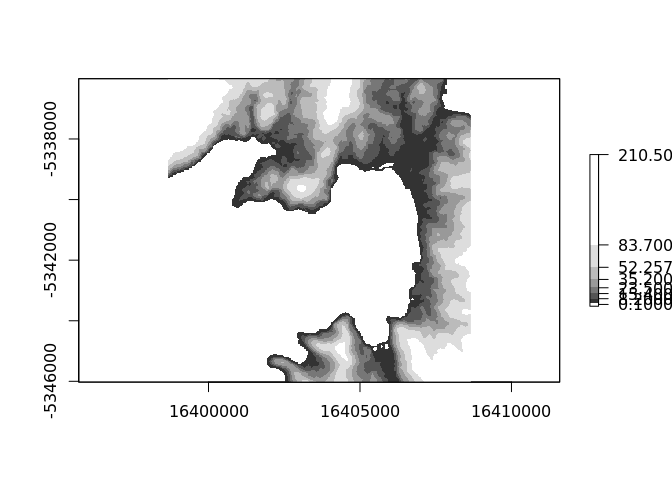
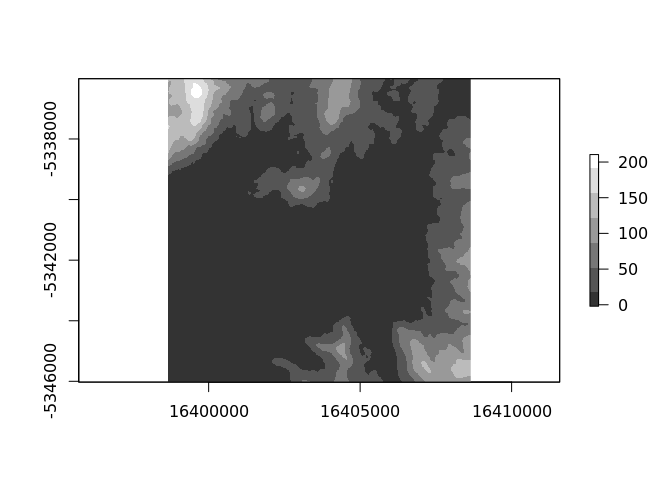
cc_elevation

Changed region(s): [[0.25, 0.1562, 0.7188, 0.8125], [0.875, 0.3125, 1.0, 0.6562], [0.6875, 0.8438, 0.8438, 0.875]]

diff --git a/README.md b/README.md
@@ -45,7 +45,7 @@ This complete example gets tiled imagery that we can use as real data.
 
 The code here
 
-  - generates a bounding box in longitud-latitude
+  - generates a bounding box in longitude-latitude
   - uses [slippymath](https://github.com/MilesMcBain/slippymath/) to
     find sensible tiles for the region
   - downloads them to a local cache
@@ -233,22 +233,18 @@ See `quadmesh::quadmesh`.
 Get DEM, get image, make a scene.
 
 ``` r
-cc_elevation <- function(loc,...) {
-  dat <- cc_location(loc, 5000, type = "mapbox.terrain-rgb")
-  height <-  -10000 + ((dat[[1]] * 256 * 256 + dat[[2]] * 256 + dat[[3]]) * 0.1)
-  projection(height) <- "+proj=merc +a=6378137 +b=6378137"
-  height
-}
+
 loc <- cbind(147.3565, -43.19052)
 dem <- cc_elevation(loc)
 zap0 <- function(x) x[x > 0]
-plot(dem, col = grey(seq(0.2, 1, length.out =  7)), breaks = quantile(zap0(values(dem)), 
-                                                                       seq(0, 1, length = 8)))
+plot(dem, col = grey(seq(0.2, 1, length.out =  7)))
 ```
 
 <img src="man/figures/README-elevation-1.png" width="100%" />
 
 ``` r
+
+
 #library(quadmesh)  # @textures branch
 
 #qm <- quadmesh(dem, texture = cc_location(loc, type = "mapbox.satellite"))

diff --git a/NEWS.md b/NEWS.md
@@ -1,2 +1,5 @@
 # ceramic dev
 
+* Added function `cc_elevation`. 
+
+* Early dev, with Miles McBain at FOSS4G Oceania 2018!  
